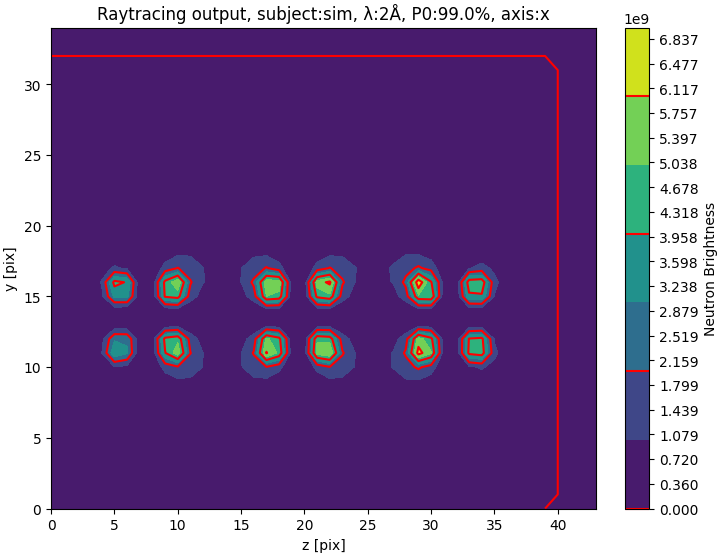
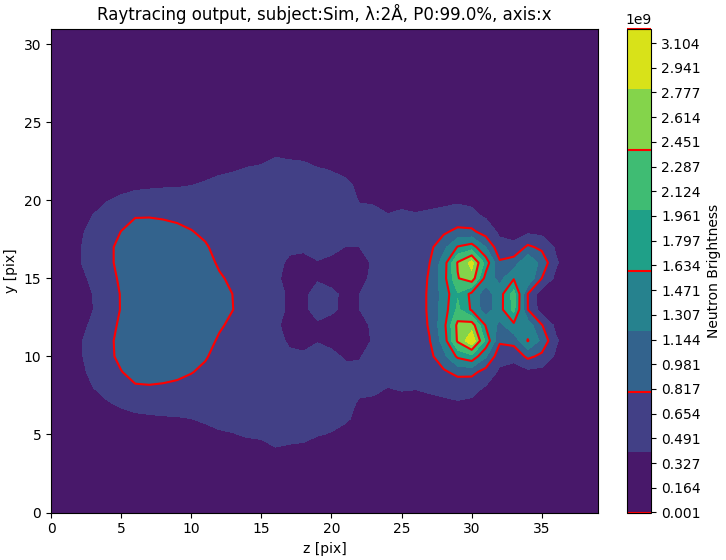
Fixed ray tracing functions
Fixed rad/degrees issues; streamlined ray forming scripts.

diff --git a/ray_tracing_fns.py b/ray_tracing_fns.py
@@ -6,7 +6,7 @@ import config
 import config_fns
 import main
 
-def make_ray(b_field, start_pos, dir_vec):
+def make_ray(b_field, start_pos, dir_vec): # BUG: somethow the rays are not being made
     """Simulates a ray of neutron passing through the field space.
     Returns the magnetic field values of each voxel the ray passes through.
     Precondition: 
@@ -21,37 +21,58 @@ def make_ray(b_field, start_pos, dir_vec):
     Returns:
         np.array: The magnetic field values of each voxel the ray passes through.
     """
-    theta, phi = dir_vec
+    theta, phi = dir_vec # Radians
 
-    theta = np.radians(theta)
-    phi = np.radians(phi)
+    y_increment = np.sin(theta)
+    z_increment = np.sin(phi)
+    x_tot = len(b_field)
 
-    deviate_angle = np.arctan(np.tan(theta) * np.cos(phi))
-    if deviate_angle > config.MAX_ANGLE:
-        raise ValueError("Max angle exceeded.")
+    # Determine if the ray deviates too much
+    deviant_angle = np.arctan((y_increment**2 + z_increment**2)**0.5)
 
-    y_ray = np.sin(theta) * np.sin(phi)
-    z_ray = np.sin(theta) * np.cos(phi)
+    if deviant_angle > np.radians(config.MAX_ANGLE):
+        err_msg = f"Deviant angle {np.degrees(deviant_angle)} "
+        err_msg += f"is greater than the maximum deviant angle {config.MAX_ANGLE}."
+        raise ValueError(err_msg)
+
+    # Determine the final position of the ray
+    y_ray_end = y_increment * x_tot + start_pos[0]
+    z_ray_end = z_increment * x_tot + start_pos[1]
+
+    y_out_of_bound = y_ray_end >= len(b_field[0])-1 or y_ray_end < 0
+    z_out_of_bound = z_ray_end >= len(b_field[0][0])-1 or z_ray_end < 0
+
+    # If out of bound, print message and return None (move on to next ray)
+    if y_out_of_bound or z_out_of_bound:
+        return None
 
     path_field = []
     field_path = []
     for x_pos, _ in enumerate(b_field):
-        y_pos = int(round(float(y_ray * x_pos + start_pos[0])))
-        z_pos = int(round(float(z_ray * x_pos + start_pos[1])))
+        # For each x position, determine the y-z position of the ray #NOTE: this step is fine
+        y_ray_pos = np.float64(y_increment * x_pos + start_pos[0])
+        z_ray_pos = np.float64(z_increment * x_pos + start_pos[1])
 
-        y_out_of_bound = (y_ray * len(b_field) + start_pos[0]) >= len(b_field[0])-1
-        z_out_of_bound = (z_ray * len(b_field) + start_pos[1]) >= len(b_field[0][0])-1
+        # Determine if the ray is out of bound
+        y_ray_finish = len(b_field) * y_increment + start_pos[0]
+        z_ray_finish = len(b_field) * z_increment + start_pos[1]
 
-        if y_pos < 0 or y_out_of_bound or z_pos < 0 or z_out_of_bound:
+        y_out_of_bound = y_ray_finish >= len(b_field[0])-1 or y_ray_finish < 0
+        z_out_of_bound = z_ray_finish >= len(b_field[0][0])-2 or z_ray_finish < 0
+
+        if y_out_of_bound or z_out_of_bound:
             return None
         else:
+            y_pos = int(round(y_ray_pos))
+            z_pos = int(round(z_ray_pos))
+            # print(f"z_pos = {z_pos}, z_ray_finish = {z_ray_finish}")
             field_at_loc = b_field[x_pos][y_pos][z_pos]
-            ray_loc = [x_pos, y_pos, z_pos]
+            ray_loc = [x_pos, y_ray_pos, z_ray_pos]
 
             path_field.append(field_at_loc)
             field_path.append(ray_loc)
 
-        if y_pos < 0 or y_pos >= len(b_field[0]) or z_pos < 0 or z_pos >= len(b_field[0][0]):
+        if y_ray_pos < 0 or y_ray_pos >= len(b_field[0]) or z_ray_pos < 0 or z_ray_pos >= len(b_field[0][0]):
             raise IndexError("Ray has left the space without reaching the end,"
                              "please check the starting position and direction. "
                              f"Ray last seen at (x, y, z) = {(x_pos, y_pos, z_pos)}. "
@@ -70,6 +91,14 @@ def ray_tracing_sim(field, pixel_pos, source):
         the field values along the ray as well as the ray's path. Calcualte the polarization rate of
         the ray, and the resulting intensity, and sum the intensities together to get the intensity 
         of the pixel.
+
+    Args:
+        field (np.array): The magnetic field in the space.
+        pixel_pos (tuple): The position of the pixel in 2d space.
+        source (np.array): The source of the neutrons.
+
+    Returns:
+        float: The intensity of the pixel.
     """
     # Create a background for the spotlight to cast on
     space_dim = np.shape(field)[:3]
@@ -84,12 +113,13 @@ def ray_tracing_sim(field, pixel_pos, source):
     spotlight = np.where(np.sqrt((source_indx[0] - pixel_pos[0])**2 + (source_indx[1] - pixel_pos[1])**2) <= deviant_radius)
 
     # Iterate through each pixel in the spotlight
-    i_pix = 0
+    i_pix = np.float64(0)
 
     task_num = np.shape(spotlight)[1]
     ray_time = 0
     for i in range(task_num):
-        ray_start = datetime.now()
+        # ray_start = datetime.now()
+        # ray_time += (datetime.now() - ray_start).total_seconds()
         # print(f"Making ray {i} out of {task_num}. Time elapsed: {ray_time}.")
         source_y, source_z = spotlight[0][i], spotlight[1][i]
         source_val = source[source_y][source_z]

diff --git a/main.py b/main.py
@@ -21,14 +21,14 @@ DATA_FILE = "bar_magnet.txt"
 SOURCE_PROFILE = "gaussian"
 
 # # Specify in which axis is the neutron beam projected
-AXIS = "z" # Axis to be raytraced along, must be "x", "y", or "z"
+AXIS = "x" # Axis to be raytraced along, must be "x", "y", or "z"
 
 # # Physisc settings
-INITIAL_POLARIZATION = 0.85 # Initial polarization rate of the neutron in decimals
-WAVELENGTH = 7
+INITIAL_POLARIZATION = 0.99 # Initial polarization rate of the neutron in decimals
+WAVELENGTH = 2
 
 # # Misc settings
-PLOT_NAME = 'sim'
+PLOT_NAME = 'Sim'
 PLOT_FIELD_FIRST = False # If true, generates a plot of the field before raytracing
 SHOW_PROGRESS = True # If true, prints the progress
 
@@ -52,9 +52,9 @@ if __name__ == "__main__":
     field_loc = np.transpose(field_loc, axis_rot[AXIS])
     field = np.transpose(field, axis_rot[AXIS])
 
-    space_dim = np.shape(field)[0:3]
+    space_dim = np.array(np.shape(field)[0:3])
     print(f"The size of the space is {space_dim}")
-    space_dim = np.array(space_dim) + [space_dim[0]//10, space_dim[1]//10, space_dim[2]//10]
+    space_dim = np.array(space_dim)# + [space_dim[0]//10, space_dim[1]//10, space_dim[2]//10] - 1
 
     field_loc_T = np.transpose(field_loc, (3, 0, 1, 2))
     field_T = np.transpose(field, (3, 0, 1, 2))
@@ -75,7 +75,7 @@ if __name__ == "__main__":
         source = config_fns.gaussian_2d(space_dim,
                                         config.SOURCE_STD,
                                         config.SOURCE_NORM)
-    else: 
+    else:
         pass
 
     # Do raytracing
@@ -86,16 +86,11 @@ if __name__ == "__main__":
 
     ROW_TIME = 0
     tot_row = np.shape(output)[0]
-    # NOTE: I might be iterating through the dimensions in the wrong order
+    print(np.shape(output))
     with mp.Pool(processes = os.cpu_count()) as pool:
         for i, row in enumerate(output):
             row_start = datetime.now()
             progress = round(i/tot_row * 100, 2)
-            if SHOW_PROGRESS:
-                print(f"Now processing row {i}/{tot_row}, progress {progress}"
-                      f"%. Last row used {ROW_TIME}. "
-                      f"Total time elapsed: {datetime.now() - start_time}. "
-                      f"Estimated time remaining: {tot_row * ROW_TIME}. ")
             for j, col in enumerate(row):
                 i_pix = pool.apply_async(ray_tracing_fns.ray_tracing_sim,
                                          args=(field, (i, j), source))
@@ -104,6 +99,11 @@ if __name__ == "__main__":
                 output[i][j] = i_pix
 
             ROW_TIME = datetime.now() - row_start
+            if SHOW_PROGRESS:
+                print(f"Processed row {i}/{tot_row}, progress {progress}"
+                      f"%. Last row used {ROW_TIME}. "
+                      f"Total time elapsed: {datetime.now() - start_time}. "
+                      f"Estimated time remaining: {tot_row * ROW_TIME}. ")
 
     # Normalize the output
 

diff --git a/config_fns.py b/config_fns.py
@@ -123,6 +123,7 @@ def find_polarization(path_field, path, wavelength):
     # Find the directional vector of the neutron's trajectory
     d_vec = path[-1] - path[0]
     d_vec = d_vec / np.linalg.norm(d_vec)
+    # print(d_vec)
 
     phi = 0
     for count, field_vec in enumerate(field_integral):
@@ -132,8 +133,8 @@ def find_polarization(path_field, path, wavelength):
     wavelength = wavelength * 10**-10 # m
 
     dP = (temp*wavelength)**2
-    # print(dP)
 
     P = (1 - dP) * main.INITIAL_POLARIZATION
+    # print(P)
 
     return P

diff --git a/debug.py b/debug.py
@@ -1,4 +1,12 @@
 """Testing ground for new features, or to run a specific function and see what's wrong with it"""
+from ray_tracing_fns import make_ray
 import numpy as np
 
-print("\u212B")
+b_field = np.array([[[1, 2, 3], [4, 5, 6], [7, 8, 9]],
+                    [[10, 11, 12], [13, 14, 15], [16, 17, 18]],
+                    [[19, 20, 21], [22, 23, 24], [25, 26, 27]]])
+
+print(np.shape(b_field))
+for i, count in enumerate(b_field):
+    for j, count1 in enumerate(count):
+        print(j, count1)
